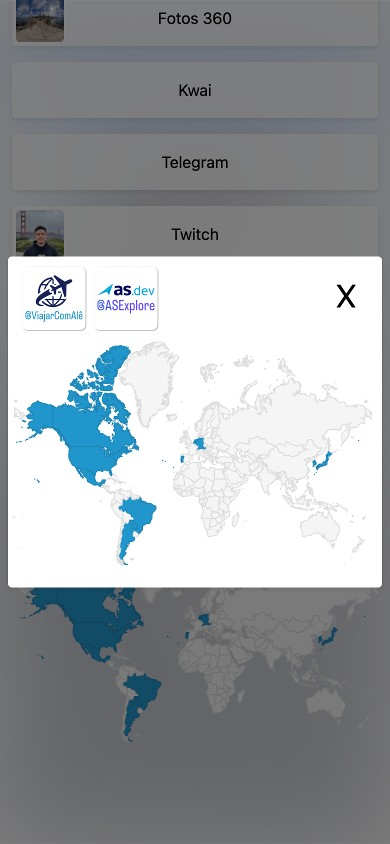
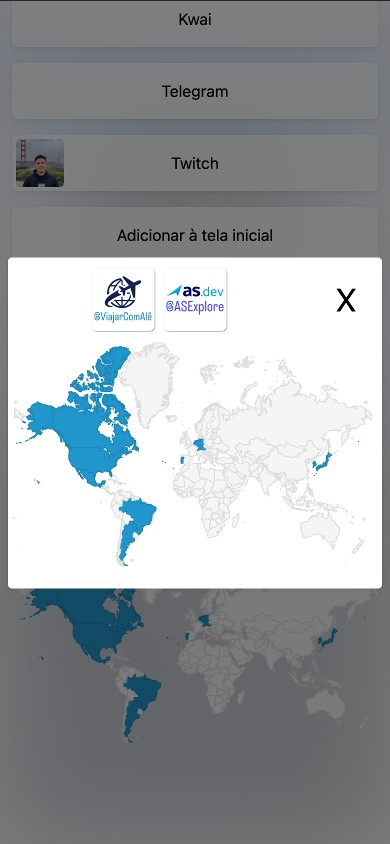
Update screenshots

diff --git a/src/app/components/visited-countries/index.js b/src/app/components/visited-countries/index.js
@@ -10,7 +10,7 @@ export default function VisitedCountries({ isModal }) {
 
   return <div>
     {isModalOpen && <VisitedCountriesModal onClose={() => setIsModalOpen(false)} />}
-    <div onClick={() => !isModal && setIsModalOpen(true)} style={{ cursor: 'pointer', marginBottom: 100 }}>
+    <div onClick={() => !isModal && setIsModalOpen(true)} style={{ cursor: 'pointer', marginBottom: isModal ? 20 : 100 }}>
       <Chart
         chartType="GeoChart"
         data={[['Country'], ...countries.map(c => [c.name])]}
